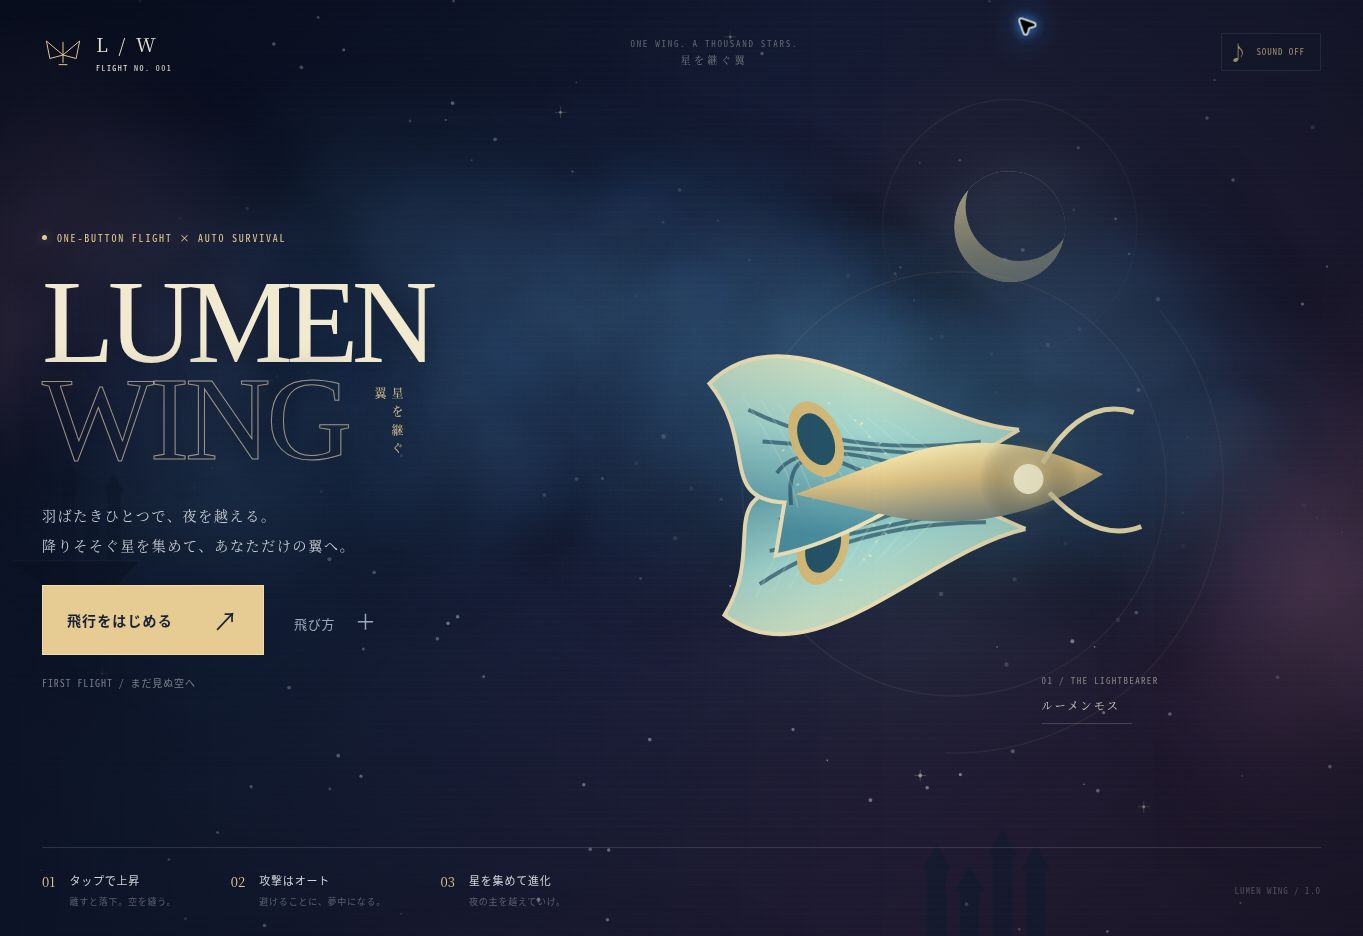
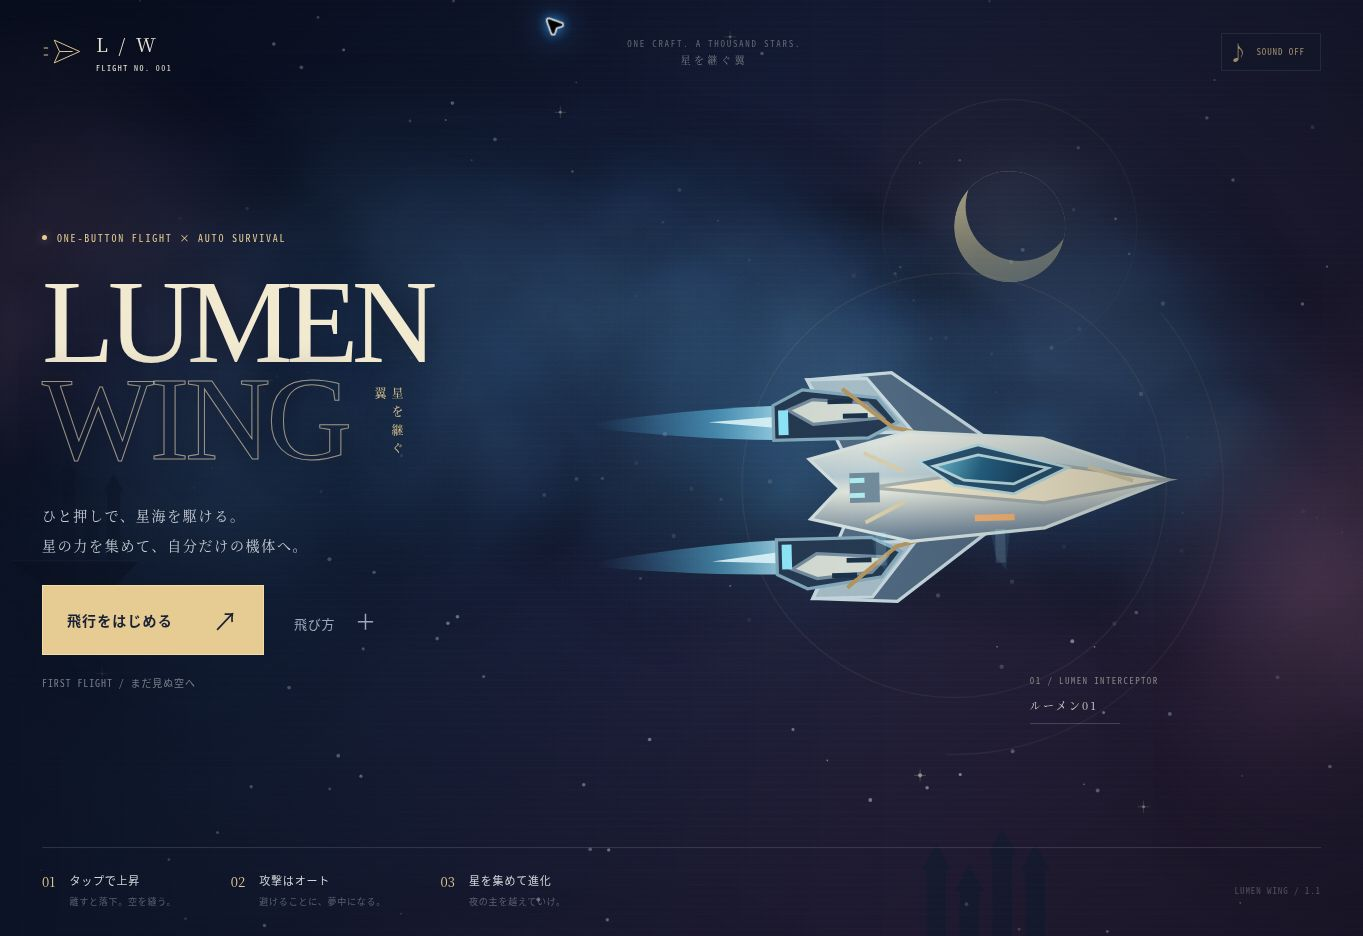
Redesign Lumen Wing with spacecraft and drones; quicken flight and auto fire (v1.1)

diff --git a/dist/index.html b/dist/index.html
@@ -2,18 +2,18 @@
 <html lang="ja">
 <head>
   <meta charset="UTF-8"><meta name="viewport" content="width=device-width,initial-scale=1,viewport-fit=cover">
-  <meta name="theme-color" content="#10182c"><meta name="description" content="タップで羽ばたき、光で生き延びる。1ボタン飛行と自動攻撃を組み合わせた浮遊サバイバル。">
-  <title>LUMEN WING — 星を継ぐ翼</title><link rel="icon" href="./icon.svg"><link rel="manifest" href="./manifest.webmanifest">
-  <link rel="stylesheet" href="./style.css?v=lumen-1.0.0"><script type="module" src="./app.mjs?v=lumen-1.0.0"></script>
+  <meta name="theme-color" content="#10182c"><meta name="description" content="タップで噴射、星海を駆け抜ける。1ボタン飛行と自動攻撃を組み合わせた浮遊サバイバル。">
+  <title>LUMEN WING — 星を継ぐ翼</title><link rel="icon" href="./icon.svg?v=lumen-1.1.0"><link rel="manifest" href="./manifest.webmanifest?v=lumen-1.1.0">
+  <link rel="stylesheet" href="./style.css?v=lumen-1.1.0"><script type="module" src="./app.mjs?v=lumen-1.1.0"></script>
 </head>
 <body>
 <main id="game">
   <canvas id="sky" aria-label="上下に広がる夜空を飛ぶゲーム画面"></canvas>
   <section id="titleScreen" class="title-screen">
-    <header class="masthead"><a class="wordmark" href="./" aria-label="Lumen Wing ホーム"><svg viewBox="0 0 48 40" aria-hidden="true"><path d="M24 24 5 8l4 20 15-4 15 4 4-20-19 16Z M24 9v24 M19 35h10"/></svg><span>L / W<span class="tiny">FLIGHT NO. 001</span></span></a><div class="edition">ONE WING. A THOUSAND STARS.<span>星を継ぐ翼</span></div><button class="icon-btn sound-toggle" aria-label="サウンドを切り替える" aria-pressed="false">♪<span class="sound-text">SOUND OFF</span></button></header>
-    <div class="hero"><div class="eyebrow"><span class="live-dot"></span> ONE-BUTTON FLIGHT × AUTO SURVIVAL</div><h1>LUMEN<br><span>WING</span><i>星を継ぐ翼</i></h1><p class="hero-copy">羽ばたきひとつで、夜を越える。<br>降りそそぐ星を集めて、あなただけの翼へ。</p><div class="start-row"><button id="start" class="primary">飛行をはじめる <span>↗</span></button><button id="howto" class="text-btn">飛び方 <span>＋</span></button></div><p id="best" class="best">FIRST FLIGHT / まだ見ぬ空へ</p></div>
-    <div class="ship-label"><span>01 / THE LIGHTBEARER</span><i>ルーメンモス</i><span class="hairline"></span></div>
-    <footer class="title-footer"><div><span class="step-number">01</span><p>タップで上昇<small>離すと落下。空を縫う。</small></p></div><div><span class="step-number">02</span><p>攻撃はオート<small>避けることに、夢中になる。</small></p></div><div><span class="step-number">03</span><p>星を集めて進化<small>夜の主を越えていけ。</small></p></div><span class="version">LUMEN WING / 1.0</span></footer>
+    <header class="masthead"><a class="wordmark" href="./" aria-label="Lumen Wing ホーム"><svg viewBox="0 0 48 40" aria-hidden="true"><path d="M43 20 14 7l6 13-6 13 29-13Z M20 20h15 M7 16H2 M7 24H2"/></svg><span>L / W<span class="tiny">FLIGHT NO. 001</span></span></a><div class="edition">ONE CRAFT. A THOUSAND STARS.<span>星を継ぐ翼</span></div><button class="icon-btn sound-toggle" aria-label="サウンドを切り替える" aria-pressed="false">♪<span class="sound-text">SOUND OFF</span></button></header>
+    <div class="hero"><div class="eyebrow"><span class="live-dot"></span> ONE-BUTTON FLIGHT × AUTO SURVIVAL</div><h1>LUMEN<br><span>WING</span><i>星を継ぐ翼</i></h1><p class="hero-copy">ひと押しで、星海を駆ける。<br>星の力を集めて、自分だけの機体へ。</p><div class="start-row"><button id="start" class="primary">飛行をはじめる <span>↗</span></button><button id="howto" class="text-btn">飛び方 <span>＋</span></button></div><p id="best" class="best">FIRST FLIGHT / まだ見ぬ空へ</p></div>
+    <div class="ship-label"><span>01 / LUMEN INTERCEPTOR</span><i>ルーメン01</i><span class="hairline"></span></div>
+    <footer class="title-footer"><div><span class="step-number">01</span><p>タップで上昇<small>離すと落下。空を縫う。</small></p></div><div><span class="step-number">02</span><p>攻撃はオート<small>避けることに、夢中になる。</small></p></div><div><span class="step-number">03</span><p>星を集めて進化<small>夜の主を越えていけ。</small></p></div><span class="version">LUMEN WING / 1.1</span></footer>
   </section>
   <section id="hud" class="hud" hidden aria-label="飛行状況">
     <div class="xp-track"><div id="xpFill"></div></div>
@@ -22,11 +22,11 @@
     <div id="toast" class="toast" hidden aria-live="polite"></div>
     <div id="flightTip" class="flight-tip"><span class="tap-glyph">⌃</span><strong>タップ / Space で上昇</strong><span>離すと落下 · 攻撃はオート · 長押しもOK</span></div>
     <div class="hud-bottom"><div id="armory" class="armory"><span>✦ <b>1</b></span></div><div class="altitude"><small>ALTITUDE</small><span id="altitude">+0 m</span></div></div>
-    <button id="rise" class="rise-btn" aria-label="上昇：押すと羽ばたく、長押しで連続上昇"><span>⌃</span>RISE</button>
+    <button id="rise" class="rise-btn" aria-label="上昇：押すと噴射、長押しで連続上昇"><span>⌃</span>RISE</button>
   </section>
-  <section id="upgradeScreen" class="overlay upgrade-screen" hidden aria-labelledby="upgradeTitle"><div class="modal upgrade-modal"><div class="eyebrow">A NEW CONSTELLATION</div><h2 id="upgradeTitle">翼に、新たな光を。</h2><p class="modal-copy">成長をひとつ選んで、ふたたび空へ。</p><div id="choices" class="choices"></div><div class="modal-foot"><span id="upgradeLevel">LEVEL 02</span><span>選択中は時間が止まります</span></div></div></section>
-  <section id="pauseScreen" class="overlay" hidden aria-labelledby="pauseTitle"><div class="modal compact"><div class="eyebrow">BETWEEN TWO WINGBEATS</div><h2 id="pauseTitle">ひと息、空の途中で。</h2><p class="modal-copy">タップで上昇、離すと落下。<br>長押しで連続上昇。攻撃と経験値回収はオート。</p><button id="resume" class="primary">飛行を再開 <span>↗</span></button><button id="quit" class="text-btn">タイトルに戻る</button><p class="keyboard-note">Space / ↑ / W で上昇 · P / Esc で一時停止</p></div></section>
-  <section id="resultScreen" class="overlay result-screen" hidden aria-labelledby="resultTitle"><div class="modal result-modal"><div id="resultEyebrow" class="eyebrow">FLIGHT RECORDED</div><div id="resultSeal" class="result-seal">✧</div><h2 id="resultTitle">光は、次の翼へ。</h2><p id="resultCopy" class="modal-copy">星を集め、また空へ。</p><div class="result-stats"><div><small>飛行時間</small><strong id="resultTime">00:00</strong></div><div><small>撃破数</small><strong id="resultKills">0</strong></div><div><small>到達レベル</small><strong id="resultLevel">1</strong></div></div><div id="resultBuild" class="result-build"></div><button id="retry" class="primary">もう一度、空へ <span>↗</span></button><button id="resultHome" class="text-btn">タイトルに戻る</button></div></section>
-  <section id="guideScreen" class="overlay" hidden aria-labelledby="guideTitle"><div class="modal guide-modal"><div class="eyebrow">FIELD GUIDE / 01</div><h2 id="guideTitle">ひとつの操作。<br>無数の飛び方。</h2><div class="guide-grid"><div><b>01 / FLY</b><h3>タップで羽ばたく</h3><p>自動で前進。タップすると上昇し、離すと重力で下降します。長押しでも連続上昇。空は上下にも続きます。</p></div><div><b>02 / SURVIVE</b><h3>避けることに集中</h3><p>近くの敵へ星弾を自動発射。ピンクの敵弾と浮遊岩を避けて。体力がなくなるまで飛べます。</p></div><div><b>03 / EVOLVE</b><h3>灯を集め、翼を育てる</h3><p>緑の灯は経験値。近づくと吸い寄せられます。成長するたび3つの力から選択。2分30秒で現れる星喰いを倒せばクリア。</p></div></div><button id="guideClose" class="primary">準備できた <span>↗</span></button><p class="keyboard-note">キーボード：Space / ↑ / W · 選択：1 / 2 / 3 · 停止：P / Esc</p></div></section>
+  <section id="upgradeScreen" class="overlay upgrade-screen" hidden aria-labelledby="upgradeTitle"><div class="modal upgrade-modal"><div class="eyebrow">A NEW CONSTELLATION</div><h2 id="upgradeTitle">機体に、新たな光を。</h2><p class="modal-copy">成長をひとつ選んで、ふたたび空へ。</p><div id="choices" class="choices"></div><div class="modal-foot"><span id="upgradeLevel">LEVEL 02</span><span>選択中は時間が止まります</span></div></div></section>
+  <section id="pauseScreen" class="overlay" hidden aria-labelledby="pauseTitle"><div class="modal compact"><div class="eyebrow">DRIFT / STANDBY</div><h2 id="pauseTitle">ひと息、空の途中で。</h2><p class="modal-copy">タップで上昇、離すと落下。<br>長押しで連続上昇。攻撃と経験値回収はオート。</p><button id="resume" class="primary">飛行を再開 <span>↗</span></button><button id="quit" class="text-btn">タイトルに戻る</button><p class="keyboard-note">Space / ↑ / W で上昇 · P / Esc で一時停止</p></div></section>
+  <section id="resultScreen" class="overlay result-screen" hidden aria-labelledby="resultTitle"><div class="modal result-modal"><div id="resultEyebrow" class="eyebrow">FLIGHT RECORDED</div><div id="resultSeal" class="result-seal">✧</div><h2 id="resultTitle">光は、次の航路へ。</h2><p id="resultCopy" class="modal-copy">星を集め、また空へ。</p><div class="result-stats"><div><small>飛行時間</small><strong id="resultTime">00:00</strong></div><div><small>撃破数</small><strong id="resultKills">0</strong></div><div><small>到達レベル</small><strong id="resultLevel">1</strong></div></div><div id="resultBuild" class="result-build"></div><button id="retry" class="primary">もう一度、空へ <span>↗</span></button><button id="resultHome" class="text-btn">タイトルに戻る</button></div></section>
+  <section id="guideScreen" class="overlay" hidden aria-labelledby="guideTitle"><div class="modal guide-modal"><div class="eyebrow">FIELD GUIDE / 01</div><h2 id="guideTitle">ひとつの操作。<br>無数の飛び方。</h2><div class="guide-grid"><div><b>01 / FLY</b><h3>タップでブースト</h3><p>自動で前進。タップすると上昇し、離すと重力で下降します。長押しでも連続上昇。空は上下にも続きます。</p></div><div><b>02 / SURVIVE</b><h3>避けることに集中</h3><p>近くの敵へ星弾を自動発射。ピンクの敵弾と浮遊岩を避けて。体力がなくなるまで飛べます。</p></div><div><b>03 / EVOLVE</b><h3>灯を集め、機体を強化</h3><p>緑の灯は経験値。近づくと吸い寄せられます。成長するたび3つの力から選択。2分30秒で現れる星喰いを倒せばクリア。</p></div></div><button id="guideClose" class="primary">準備できた <span>↗</span></button><p class="keyboard-note">キーボード：Space / ↑ / W · 選択：1 / 2 / 3 · 停止：P / Esc</p></div></section>
 </main>
 </body></html>

diff --git a/dist/sw.js b/dist/sw.js
@@ -1,5 +1,5 @@
-const CACHE='lumen-wing-1.0.0';
-const CORE=['./','./index.html','./style.css?v=lumen-1.0.0','./app.mjs?v=lumen-1.0.0','./model.mjs?v=lumen-1.0.0','./render.mjs?v=lumen-1.0.0','./audio.mjs?v=lumen-1.0.0','./storage.mjs?v=lumen-1.0.0','./icon.svg','./manifest.webmanifest'];
+const CACHE='lumen-wing-1.1.0';
+const CORE=['./','./index.html','./style.css?v=lumen-1.1.0','./app.mjs?v=lumen-1.1.0','./model.mjs?v=lumen-1.1.0','./render.mjs?v=lumen-1.1.0','./audio.mjs?v=lumen-1.1.0','./storage.mjs?v=lumen-1.1.0','./icon.svg?v=lumen-1.1.0','./manifest.webmanifest?v=lumen-1.1.0'];
 self.addEventListener('install',e=>e.waitUntil(caches.open(CACHE).then(c=>c.addAll(CORE)).then(()=>self.skipWaiting())));
 self.addEventListener('activate',e=>e.waitUntil(caches.keys().then(keys=>Promise.all(keys.filter(k=>k!==CACHE&&/^(lumen-wing-|margin-tide-|nocturne-eclipse-)/.test(k)).map(k=>caches.delete(k)))).then(()=>self.clients.claim())));
-self.addEventListener('fetch',e=>{if(e.request.method!=='GET'||new URL(e.request.url).origin!==self.location.origin)return;if(e.request.mode==='navigate'){e.respondWith(fetch(e.request).catch(()=>caches.open(CACHE).then(c=>c.match('./index.html'))));return;}const url=new URL(e.request.url);if(url.searchParams.get('v')==='lumen-1.0.0'||/\.(svg|webmanifest)$/.test(url.pathname))e.respondWith(caches.open(CACHE).then(async c=>(await c.match(e.request))||fetch(e.request)));});
+self.addEventListener('fetch',e=>{if(e.request.method!=='GET'||new URL(e.request.url).origin!==self.location.origin)return;if(e.request.mode==='navigate'){e.respondWith(fetch(e.request).catch(()=>caches.open(CACHE).then(c=>c.match('./index.html'))));return;}const url=new URL(e.request.url);if(url.searchParams.get('v')==='lumen-1.1.0'||/\.(svg|webmanifest)$/.test(url.pathname))e.respondWith(caches.open(CACHE).then(async c=>(await c.match(e.request))||fetch(e.request)));});

diff --git a/docs/qa-v1.1.md b/docs/qa-v1.1.md
@@ -1,0 +1,28 @@
+# Lumen Wing v1.1 / 宇宙艇への変更とテンポ調整
+
+2026-10-25（日本時間）。ユーザー指定の虫モチーフ廃止と、少し速いテンポへの調整。
+
+## 変更
+
+- 自機を固定装甲・2基のエンジン・青いキャノピーを持つ宇宙艇「ルーメン01」に変更。可動する生物の翅や触角、翅の模様は削除。上昇入力では下向きスラスター、前進では後方への噴射が見える。
+- 全敵を偵察ドローン、襲撃艇、旋回砲台、装甲母艦、環状武装付き大型艦として再描画。触手・羽ばたきは不使用。タイトル・強化名・説明・アイコンも変更。
+- 水平の前進速度を15%増加。星弾の基本間隔は0.58→0.50秒、追尾速度は620→700。経験値の初期吸引速度は350→400。最初の敵は460→410の位置へ移動し、通常の敵出現開始は0.80→0.65秒に短縮。
+- 重力510、上昇時速度−255、長押し0.23秒間隔、敵ダメージ・出現頻度の曲線、ボス出現150秒は維持。
+- 保存キーは `lumen-wing-v1` のままで過去の記録を引き継ぐ。全実行モジュール・スタイル・manifest・SVGアイコンのURLとSWキャッシュをv1.1に更新。
+
+## 確認
+
+既存の動作テスト11件が成功。上下の物理とカメラ、停止と復帰、自動射撃、経験値、旋回武器と雷撃、被弾・岩・回復、ボス追従、保存拒否、縦横の通しクリアを確認。
+
+速度が変わると遭遇・撃破・成長の順序も変わるため、通しクリアの固定シナリオをシード302へ更新した。無敵・初期強化は与えず、0.97秒周期の通常入力と実際の成長選択のみで、横1100×640で約162秒、縦390×844で約157秒のボス撃破を確認した。すべてのランダムシードを固定入力だけでクリアできるという意味ではない。
+
+旧版と新版に同じ入力を10秒間与える独立した比較では、前進距離1085.56→1248.39（15%増）。機体Yは両方−117.583、カメラYは両方−429.455で一致。敵を出さず射撃タイマーの機会を数えた比較では18回→20回。この計測は操作・タイマーの比較であり、実戦の撃破数や実機フレームレートの測定ではない。
+
+Cloud Chromeの通常入口から実際に開始し、Spaceによる上昇・離した後の落下、上下スクロール、自動撃破、一時停止を確認。844×390の戦闘と390×844のボス・強化画面も表示確認した。後半は明示的なQA状態からの確認で、手動による全編攻略ではない。
+
+最終確認時、ゲーム由来のコンソール警告・エラーはなし。`npm run check` と `git diff --check` を実施。本番配信物に `_qa-*` を含めない。iPhone実機の性能・タッチ・PWA更新は未実測。
+
+## 画面証跡
+
+- `title-screen.jpg`：通常入口の新しい宇宙艇。
+- `combat-v1.1.jpg`：表示確認用の中盤状態。自機・ドローン・襲撃艇・砲台・母艦を本番と同じ描画で表示。
